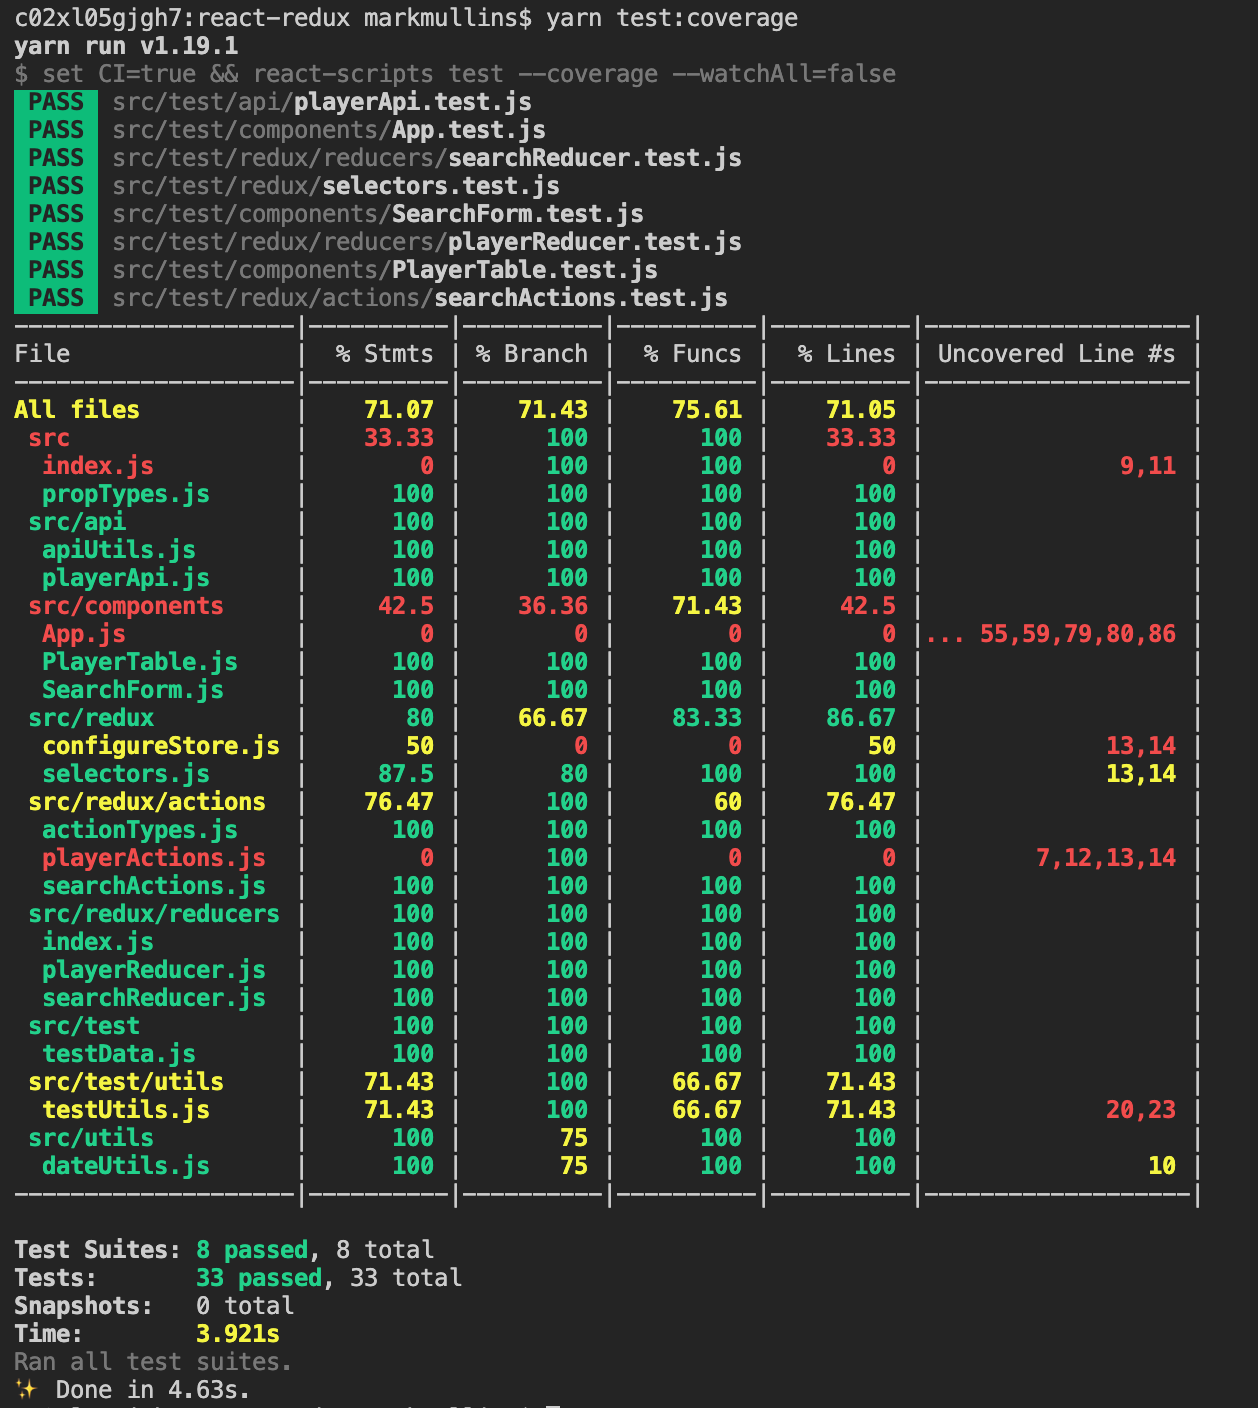
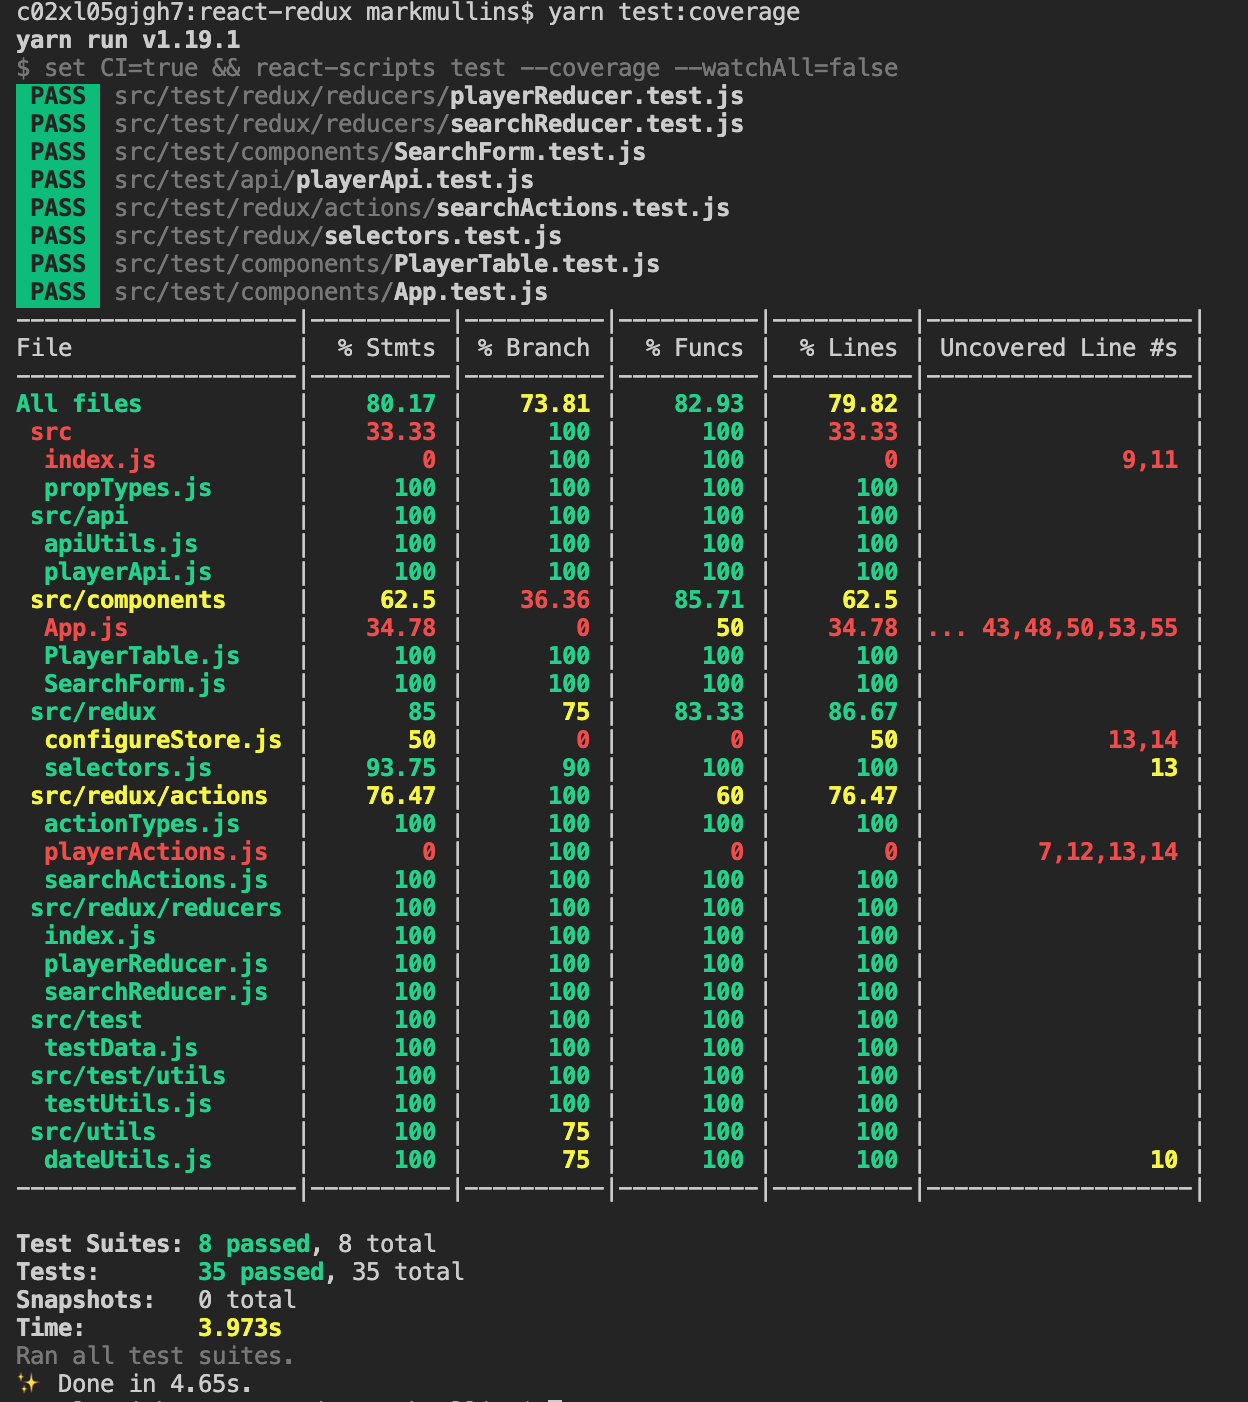
Added some tests for App component

Changed region(s): [[0.0, 0.0, 0.9688, 1.0]]

diff --git a/src/test/components/App.test.js b/src/test/components/App.test.js
@@ -1,3 +1,45 @@
+import App from '../../components/App';
+import { shallow } from 'enzyme';
+import { findByDataTest, testStore, checkProps } from '../utils/testUtils';
+import React from 'react';
+import testData from '../testData';
+
+const setup = (initialState = {}) => {
+    const store = testStore(initialState);
+    return shallow(<App store={store} />)
+        .childAt(0)
+        .dive(); //Accessing contents of connecteed component
+};
 describe('App', () => {
-    it('renders', () => {});
+    let component;
+    const state = {
+        players: testData,
+        search: {
+            searchText: '',
+            searchType: null
+        }
+    };
+    beforeEach(() => {
+        component = setup(state);
+    });
+
+    it('should render without errors', () => {
+        expect(findByDataTest(component, 'player-table').length).toBe(1);
+    });
+
+    it('should render all the components', () => {
+        expect(findByDataTest(component, 'app').length).toBe(1);
+        expect(findByDataTest(component, 'player-table').length).toBe(1);
+        expect(findByDataTest(component, 'title').length).toBe(1);
+        expect(findByDataTest(component, 'search-form').length).toBe(1);
+    });
+
+    it('should render with correct props', () => {
+        const props = {
+            players: testData,
+            filtered: [],
+            dispatch: jest.fn()
+        };
+        expect(checkProps(App, props)).toBeUndefined();
+    });
 });

diff --git a/src/components/App.js b/src/components/App.js
@@ -57,14 +57,16 @@ const App = props => {
     };
 
     return (
-        <div className="App">
+        <div className="App" data-test="app">
             <div className="page-content">
-                <h1 className="title">Football Player Finder</h1>
-                <div className="form-container">
+                <h1 className="title" data-test="title">
+                    Football Player Finder
+                </h1>
+                <div className="form-container" data-test="search-form">
                     <SearchForm handleSearch={handleSearch} />
                 </div>
                 <div className="table-container">
-                    <div className="player-table">
+                    <div className="player-table" data-test="player-table">
                         <PlayerTable
                             players={props.filtered}
                             format={formatDate}
